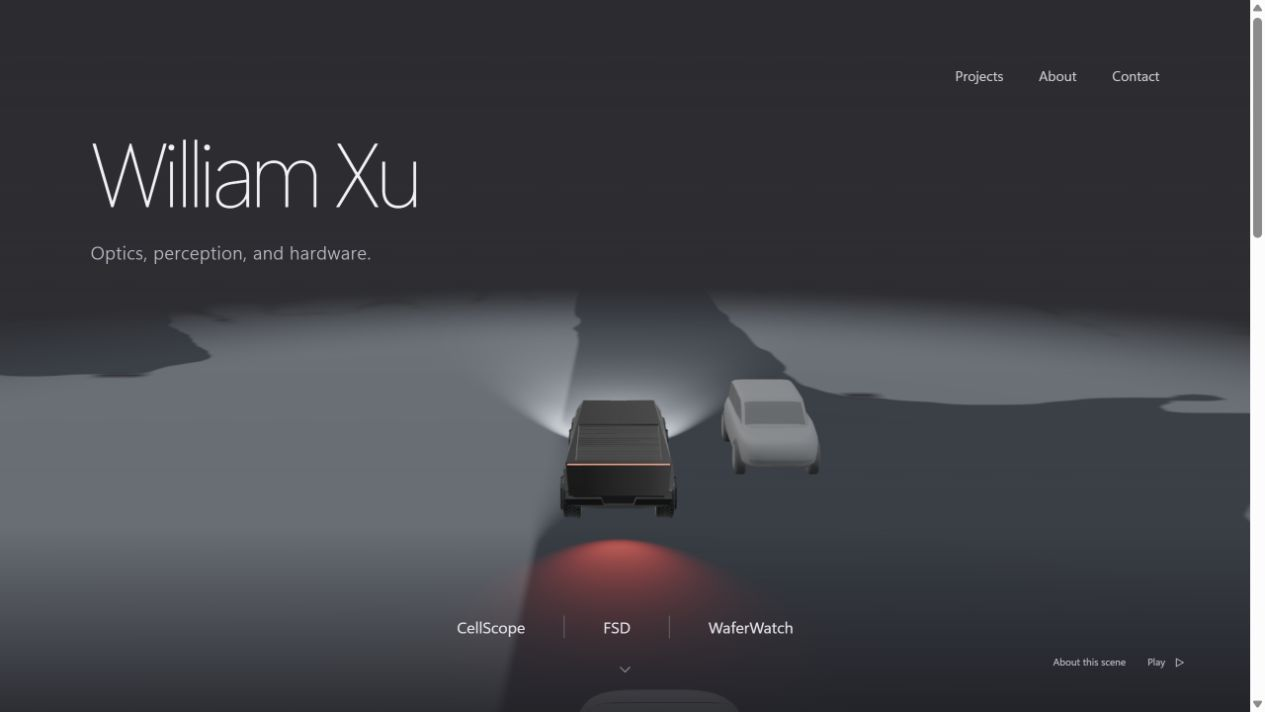
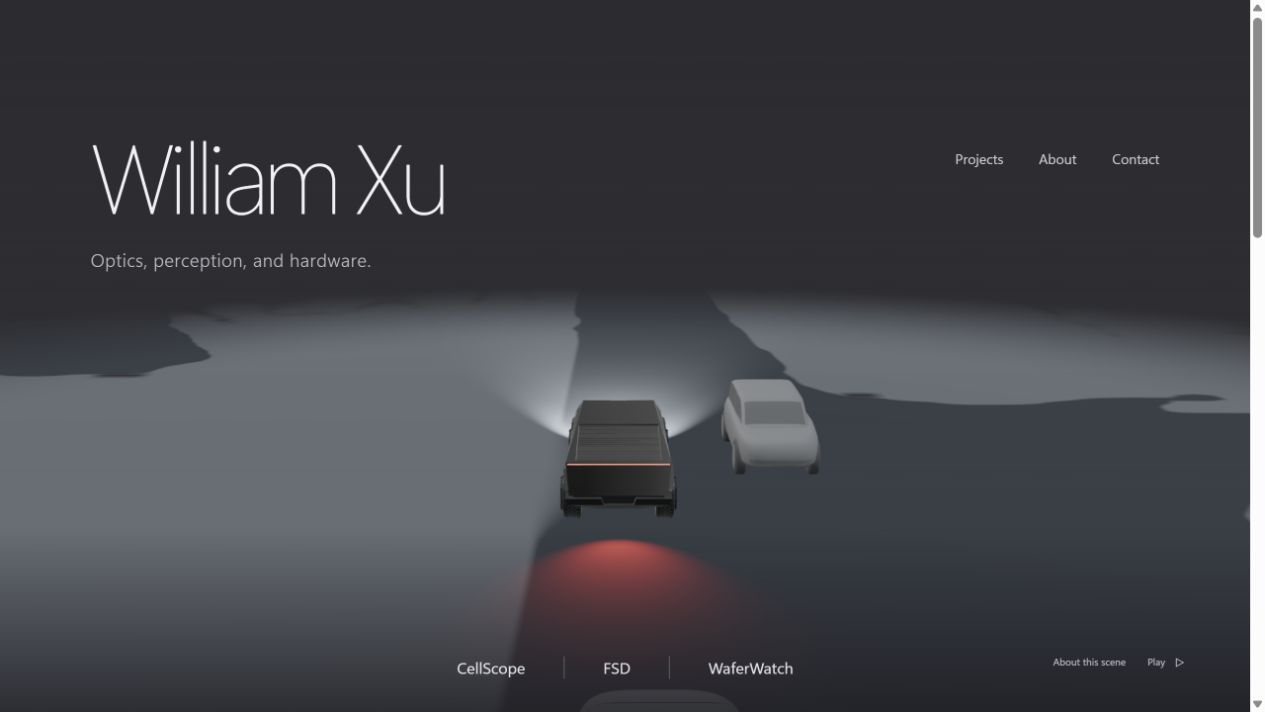
Match the charcoal reference layout and demonstrate autoplay motion

diff --git a/src/portfolio.css b/src/portfolio.css
@@ -1,5 +1,10 @@
-.page-width{width:min(1280px,calc(100% - 144px));margin-inline:auto}.portfolio-hero{height:100svh;min-height:680px;max-height:1350px;position:relative;isolation:isolate;overflow:hidden;background:#2d2d31}.fsd-scene,.scene-canvas,.scene-poster{position:absolute;inset:0;width:100%;height:100%}.fsd-scene{z-index:-3}.scene-poster{object-fit:cover;object-position:center}.scene-canvas{opacity:0;transition:opacity 1.1s}.scene-canvas canvas{display:block;width:100%;height:100%}.is-ready .scene-canvas{opacity:1}.hero-shade{position:absolute;inset:0;z-index:-1;pointer-events:none;background:linear-gradient(180deg,rgba(37,37,42,.25),transparent 47%,rgba(29,29,34,.03) 74%,rgba(29,29,34,.8))}.main-nav{position:absolute;top:58px;right:7.25%;display:flex;gap:36px;font-size:14px;font-weight:400;color:#ceced3}.main-nav a{padding:8px 0}.main-nav a:hover{color:#fff}.hero-intro{position:absolute;top:17.2%;left:7.25%;max-width:80%}.hero-intro h1{font-family:"Segoe UI Variable Display","Helvetica Neue",Arial,sans-serif;font-size:clamp(62px,7.2vw,112px);font-weight:250;line-height:1.03;letter-spacing:-.055em;margin:0;color:#f2f1f4}.hero-intro>p{margin:21px 0 0;font-size:clamp(14px,1.45vw,21px);letter-spacing:.025em;font-weight:350;color:#bcbcc5;line-height:1.6}.project-index{position:absolute;bottom:8.5%;left:50%;transform:translateX(-50%);display:flex;align-items:center;justify-content:center;gap:39px;font-size:16px;color:#e3e3e8;white-space:nowrap}.project-index a{padding:13px 0}.project-index a:hover{color:#fff}.project-index>span{width:1px;height:23px;background:#a2a2ab6b}.continue-link{position:absolute;bottom:23px;left:50%;transform:translateX(-50%);padding:10px;color:#aaaab5}.continue-link svg{width:20px;height:20px;fill:none;stroke:currentColor;stroke-width:1}.scene-controls{position:absolute;bottom:32px;right:4.5%;display:flex;gap:22px;align-items:center;font-size:10px;color:#c1c1cc}.scene-controls>a{padding-block:10px}.scene-controls button{display:flex;gap:10px;align-items:center;background:transparent;border:0;padding:10px 0;font-size:10px;min-width:47px}.scene-controls button:disabled{opacity:.5}.scene-controls button span{font-size:12px}.scene-controls>a:hover,.scene-controls button:hover{color:#fff}.skip-link{position:fixed;left:18px;top:-100px;z-index:20;padding:12px 20px;background:#f0efec;color:#292a2c;border-radius:4px}.skip-link:focus{top:18px}.selected-work{padding-top:100px;padding-bottom:110px}.section-intro{display:flex;justify-content:space-between;align-items:center;gap:30px;margin-bottom:35px}.section-intro h2,.about-section h2,.scene-notes h2{font-size:24px;letter-spacing:-.6px;font-weight:400;margin:0;line-height:1.4}.section-intro>p{font-size:12px;color:#b9b9c1;margin:0;line-height:1.7}.work-grid{display:grid;grid-template-columns:repeat(3,minmax(0,1fr));gap:28px}.work-item{min-width:0;scroll-margin-top:45px}.project-art{position:relative;display:block;aspect-ratio:1.48;overflow:hidden;background:#272a2e;border-radius:6px}.project-art>img{width:100%;height:100%;object-fit:cover;display:block}.project-art>span{position:absolute;right:13px;top:11px;width:25px;height:25px;display:grid;place-items:center;background:#33363baf;color:#f3f3f6;border-radius:50%;font-size:15px}.cellscope-art>img{filter:saturate(.65)}.fsd-art>img{object-fit:cover;object-position:50% 62%}.wafer-art{background:#282d30}.wafer-study{width:100%;height:100%;display:block}.work-heading{display:flex;align-items:baseline;justify-content:space-between;gap:14px;margin-top:22px}.work-heading h3{font-size:20px;letter-spacing:-.55px;font-weight:450;margin:0;line-height:1.4}.work-heading>span{font-size:9px;color:#bcbcc5;white-space:nowrap}.work-item>p{font-size:13px;line-height:1.8;color:#bcbcc5;margin:12px 0 19px;max-width:98%}.work-item details{font-size:12px;color:#c5c5ce}.work-item summary{cursor:pointer;list-style:none;display:inline-flex;gap:12px;align-items:center;padding:4px 0 7px;border-bottom:1px solid #666671}.work-item summary::-webkit-details-marker{display:none}.work-item summary:after{content:'+';font-size:16px;font-weight:300}.work-item details[open] summary:after{content:'−'}.work-item details>div{padding-top:12px}.work-item h4{font-size:12px;font-weight:500;color:#e7e7ed;margin:15px 0 5px}.work-item details p{font-size:12px;line-height:1.9;color:#bcbcc5;margin:0 0 15px}.work-item details a,.scene-notes a{display:inline-block;font-size:11px;line-height:1.8;border-bottom:1px solid #62626d;padding-bottom:4px;margin-top:6px;color:#dedee6}.about-section,.scene-notes{display:grid;grid-template-columns:.65fr 1fr;gap:90px;padding-block:64px;border-top:1px solid #4b4b55}.about-section>div,.scene-notes>div{max-width:650px}.about-section p,.scene-notes p{font-size:15px;font-weight:350;line-height:1.95;color:#c5c5ce;margin:0 0 18px}.about-section p:last-child,.scene-notes p:last-child{margin-bottom:0}.scene-notes h2{font-size:20px}.scene-notes p{font-size:12px;line-height:1.95;color:#bcbcc5}.contact-section{position:relative;border-top:1px solid #4b4b55;padding-top:60px;padding-bottom:95px;display:flex;justify-content:space-between;gap:50px;align-items:end}.contact-section>div>p{font-size:12px;color:#bcbcc5;margin:0 0 14px}.email-link{display:flex;gap:50px;align-items:center;font-size:46px;letter-spacing:-1.5px;font-weight:300}.email-link>span{font-size:36px;color:#b9b9c2}.contact-section nav{display:flex;gap:30px;font-size:12px;color:#cacad1;padding-bottom:10px}.contact-section nav a:hover{color:#fff}.footer-name{position:absolute;left:0;bottom:24px;font-size:10px;color:#9696a1;margin:0}
-@media(min-width:1600px){.hero-intro{top:16%}.main-nav{top:70px}.project-index{bottom:8.5%;font-size:19px}.scene-controls{bottom:39px;font-size:11px}}
-@media(max-width:1100px){.page-width{width:calc(100% - 90px)}.main-nav{top:39px;right:6%;gap:27px;font-size:13px}.hero-intro{left:6%;top:19%}.hero-intro h1{font-size:80px}.hero-intro>p{font-size:17px}.project-index{gap:28px;font-size:15px}.selected-work{padding-top:70px;padding-bottom:75px}.work-grid{gap:22px}.work-heading{display:block}.work-heading h3{font-size:18px}.work-heading>span{display:block;margin-top:7px;font-size:10px}.about-section,.scene-notes{gap:45px;grid-template-columns:.6fr 1fr}.email-link{font-size:40px}.scene-controls{right:4%;gap:16px}}
-@media(max-width:700px){.page-width{width:calc(100% - 44px)}.portfolio-hero{min-height:660px;max-height:none}.main-nav{top:25px;right:23px;left:23px;justify-content:flex-end;gap:25px;font-size:12px}.main-nav a{padding-block:13px}.hero-intro{top:17%;left:23px;right:23px;max-width:none}.hero-intro h1{font-size:clamp(49px,11.8vw,78px);font-weight:300;letter-spacing:-.055em;white-space:nowrap}.hero-intro>p{font-size:13px;margin-top:15px;letter-spacing:.015em}.hero-shade{background:linear-gradient(180deg,rgba(37,37,42,.24),transparent 51%,rgba(29,29,34,.07) 72%,rgba(29,29,34,.85))}.project-index{bottom:104px;gap:21px;font-size:13px;width:calc(100% - 40px)}.project-index>span{height:17px}.scene-controls{bottom:52px;left:23px;right:23px;justify-content:space-between;font-size:10px}.scene-controls button{min-height:44px}.continue-link{bottom:12px}.section-intro{display:block;margin-bottom:28px}.section-intro h2{font-size:24px}.section-intro>p{font-size:12px;margin-top:11px}.selected-work{padding-top:50px;padding-bottom:60px}.work-grid{grid-template-columns:1fr;gap:43px}.project-art{aspect-ratio:1.5}.work-heading{display:flex;margin-top:18px}.work-heading h3{font-size:21px}.work-heading>span{display:inline;margin:0;font-size:10px}.work-item>p{font-size:13px;margin-block:12px 16px}.work-item details{font-size:12px}.work-item summary{min-height:40px}.about-section,.scene-notes{grid-template-columns:1fr;gap:22px;padding-block:38px}.about-section h2{font-size:23px}.about-section p{font-size:14px}.scene-notes h2{font-size:20px}.scene-notes p{font-size:12px}.contact-section{padding-top:40px;padding-bottom:85px;flex-direction:column;align-items:start;gap:28px}.email-link{font-size:43px;gap:40px}.contact-section nav{gap:25px}.contact-section nav a{min-height:35px;display:inline-flex;align-items:center}.footer-name{bottom:25px}}
+.page-width{width:min(1280px,calc(100% - 144px));margin-inline:auto}.portfolio-hero{height:100svh;min-height:680px;max-height:1350px;position:relative;isolation:isolate;overflow:hidden;background:#2d2d31}.fsd-scene,.scene-canvas,.scene-poster{position:absolute;inset:0;width:100%;height:100%}.fsd-scene{z-index:-3}.scene-poster{object-fit:cover;object-position:center}.scene-canvas{opacity:0;transition:opacity 1.1s}.scene-canvas canvas{display:block;width:100%;height:100%}.is-ready .scene-canvas{opacity:1}.hero-shade{position:absolute;inset:0;z-index:-1;pointer-events:none;background:linear-gradient(180deg,rgba(37,37,42,.25),transparent 47%,rgba(29,29,34,.03) 74%,rgba(29,29,34,.8))}.main-nav{position:absolute;top:calc(17.2% + 18px);right:7.25%;display:flex;gap:36px;font-size:14px;font-weight:400;color:#ceced3}.main-nav a{padding:8px 0}.main-nav a:hover{color:#fff}.hero-intro{position:absolute;top:17.2%;left:7.25%;max-width:80%}.hero-intro h1{font-family:"Segoe UI Variable Display","Helvetica Neue",Arial,sans-serif;font-size:clamp(62px,7.8vw,124px);font-weight:250;line-height:1.03;letter-spacing:-.055em;margin:0;color:#f2f1f4}.hero-intro>p{margin:21px 0 0;font-size:clamp(14px,1.45vw,21px);letter-spacing:.025em;font-weight:350;color:#bcbcc5;line-height:1.6}.project-index{position:absolute;bottom:2.8%;left:50%;transform:translateX(-50%);display:flex;align-items:center;justify-content:center;gap:39px;font-size:16px;color:#e3e3e8;white-space:nowrap}.project-index a{padding:13px 0}.project-index a:hover{color:#fff}.project-index>span{width:1px;height:23px;background:#a2a2ab6b}.scene-controls{position:absolute;bottom:32px;right:4.5%;display:flex;gap:22px;align-items:center;font-size:10px;color:#c1c1cc}.scene-controls>a{padding-block:10px}.scene-controls button{display:flex;gap:10px;align-items:center;background:transparent;border:0;padding:10px 0;font-size:10px;min-width:47px}.scene-controls button:disabled{opacity:.5}.scene-controls button span{font-size:12px}.scene-controls>a:hover,.scene-controls button:hover{color:#fff}.skip-link{position:fixed;left:18px;top:-100px;z-index:20;padding:12px 20px;background:#f0efec;color:#292a2c;border-radius:4px}.skip-link:focus{top:18px}.selected-work{padding-top:100px;padding-bottom:110px}.section-intro{display:flex;justify-content:space-between;align-items:center;gap:30px;margin-bottom:35px}.section-intro h2,.about-section h2,.scene-notes h2{font-size:24px;letter-spacing:-.6px;font-weight:400;margin:0;line-height:1.4}.section-intro>p{font-size:12px;color:#b9b9c1;margin:0;line-height:1.7}.work-grid{display:grid;grid-template-columns:repeat(3,minmax(0,1fr));gap:28px}.work-item{min-width:0;scroll-margin-top:45px}.project-art{position:relative;display:block;aspect-ratio:1.48;overflow:hidden;background:#272a2e;border-radius:6px}.project-art>img{width:100%;height:100%;object-fit:cover;display:block}.project-art>span{position:absolute;right:13px;top:11px;width:25px;height:25px;display:grid;place-items:center;background:#33363baf;color:#f3f3f6;border-radius:50%;font-size:15px}.cellscope-art>img{filter:saturate(.65)}.fsd-art>img{object-fit:cover;object-position:50% 62%}.wafer-art{background:#282d30}.wafer-study{width:100%;height:100%;display:block}.work-heading{display:flex;align-items:baseline;justify-content:space-between;gap:14px;margin-top:22px}.work-heading h3{font-size:20px;letter-spacing:-.55px;font-weight:450;margin:0;line-height:1.4}.work-heading>span{font-size:9px;color:#bcbcc5;white-space:nowrap}.work-item>p{font-size:13px;line-height:1.8;color:#bcbcc5;margin:12px 0 19px;max-width:98%}.work-item details{font-size:12px;color:#c5c5ce}.work-item summary{cursor:pointer;list-style:none;display:inline-flex;gap:12px;align-items:center;padding:4px 0 7px;border-bottom:1px solid #666671}.work-item summary::-webkit-details-marker{display:none}.work-item summary:after{content:'+';font-size:16px;font-weight:300}.work-item details[open] summary:after{content:'−'}.work-item details>div{padding-top:12px}.work-item h4{font-size:12px;font-weight:500;color:#e7e7ed;margin:15px 0 5px}.work-item details p{font-size:12px;line-height:1.9;color:#bcbcc5;margin:0 0 15px}.work-item details a,.scene-notes a{display:inline-block;font-size:11px;line-height:1.8;border-bottom:1px solid #62626d;padding-bottom:4px;margin-top:6px;color:#dedee6}.about-section,.scene-notes{display:grid;grid-template-columns:.65fr 1fr;gap:90px;padding-block:64px;border-top:1px solid #4b4b55}.about-section>div,.scene-notes>div{max-width:650px}.about-section p,.scene-notes p{font-size:15px;font-weight:350;line-height:1.95;color:#c5c5ce;margin:0 0 18px}.about-section p:last-child,.scene-notes p:last-child{margin-bottom:0}.scene-notes h2{font-size:20px}.scene-notes p{font-size:12px;line-height:1.95;color:#bcbcc5}.contact-section{position:relative;border-top:1px solid #4b4b55;padding-top:60px;padding-bottom:95px;display:flex;justify-content:space-between;gap:50px;align-items:end}.contact-section>div>p{font-size:12px;color:#bcbcc5;margin:0 0 14px}.email-link{display:flex;gap:50px;align-items:center;font-size:46px;letter-spacing:-1.5px;font-weight:300}.email-link>span{font-size:36px;color:#b9b9c2}.contact-section nav{display:flex;gap:30px;font-size:12px;color:#cacad1;padding-bottom:10px}.contact-section nav a:hover{color:#fff}.footer-name{position:absolute;left:0;bottom:24px;font-size:10px;color:#9696a1;margin:0}
+@media(min-width:1600px){.hero-intro{top:16%}.main-nav{top:calc(16% + 18px)}.project-index{bottom:2.8%;font-size:19px}.scene-controls{bottom:39px;font-size:11px}}
+@media(max-width:1100px){.page-width{width:calc(100% - 90px)}.main-nav{top:calc(19% + 12px);right:6%;gap:27px;font-size:13px}.hero-intro{left:6%;top:19%}.hero-intro h1{font-size:80px}.hero-intro>p{font-size:17px}.project-index{gap:28px;font-size:15px}.selected-work{padding-top:70px;padding-bottom:75px}.work-grid{gap:22px}.work-heading{display:block}.work-heading h3{font-size:18px}.work-heading>span{display:block;margin-top:7px;font-size:10px}.about-section,.scene-notes{gap:45px;grid-template-columns:.6fr 1fr}.email-link{font-size:40px}.scene-controls{right:4%;gap:16px}}
+@media(max-width:700px){.page-width{width:calc(100% - 44px)}.portfolio-hero{min-height:660px;max-height:none}.main-nav{top:25px;right:23px;left:23px;justify-content:flex-end;gap:25px;font-size:12px}.main-nav a{padding-block:13px}.hero-intro{top:17%;left:23px;right:23px;max-width:none}.hero-intro h1{font-size:clamp(49px,11.8vw,78px);font-weight:300;letter-spacing:-.055em;white-space:nowrap}.hero-intro>p{font-size:13px;margin-top:15px;letter-spacing:.015em}.hero-shade{background:linear-gradient(180deg,rgba(37,37,42,.24),transparent 51%,rgba(29,29,34,.07) 72%,rgba(29,29,34,.85))}.project-index{bottom:104px;gap:21px;font-size:13px;width:calc(100% - 40px)}.project-index>span{height:17px}.scene-controls{bottom:52px;left:23px;right:23px;justify-content:space-between;font-size:10px}.scene-controls button{min-height:44px}.section-intro{display:block;margin-bottom:28px}.section-intro h2{font-size:24px}.section-intro>p{font-size:12px;margin-top:11px}.selected-work{padding-top:50px;padding-bottom:60px}.work-grid{grid-template-columns:1fr;gap:43px}.project-art{aspect-ratio:1.5}.work-heading{display:flex;margin-top:18px}.work-heading h3{font-size:21px}.work-heading>span{display:inline;margin:0;font-size:10px}.work-item>p{font-size:13px;margin-block:12px 16px}.work-item details{font-size:12px}.work-item summary{min-height:40px}.about-section,.scene-notes{grid-template-columns:1fr;gap:22px;padding-block:38px}.about-section h2{font-size:23px}.about-section p{font-size:14px}.scene-notes h2{font-size:20px}.scene-notes p{font-size:12px}.contact-section{padding-top:40px;padding-bottom:85px;flex-direction:column;align-items:start;gap:28px}.email-link{font-size:43px;gap:40px}.contact-section nav{gap:25px}.contact-section nav a{min-height:35px;display:inline-flex;align-items:center}.footer-name{bottom:25px}}
 @media(max-width:350px){.project-index{gap:15px;font-size:12px}.hero-intro h1{font-size:48px}.work-heading{display:block}.work-heading>span{display:block;margin-top:6px}}
+
+/* A single quiet entrance; the recorded scene carries the ongoing motion. */
+.hero-intro{animation:portfolio-intro-in 650ms ease-out both}
+@keyframes portfolio-intro-in{from{opacity:0}to{opacity:1}}
+@media(prefers-reduced-motion:reduce){.hero-intro{animation:none}}

diff --git a/src/PortfolioExperiment.jsx b/src/PortfolioExperiment.jsx
@@ -28,7 +28,6 @@ export default function PortfolioExperiment() {
         <nav className="main-nav" aria-label="Main navigation"><a href="#projects">Projects</a><a href="#about">About</a><a href="#contact">Contact</a></nav>
         <div className="hero-intro"><h1 id="name">William Xu</h1><p>Optics, perception, and hardware.</p></div>
         <nav className="project-index" aria-label="Featured projects"><a href="#cellscope">CellScope</a><span aria-hidden="true" /><a href="#fsd">FSD</a><span aria-hidden="true" /><a href="#waferwatch">WaferWatch</a></nav>
-        <a className="continue-link" href="#projects" aria-label="Explore selected projects"><svg viewBox="0 0 24 24" aria-hidden="true"><path d="m6 9 6 6 6-6" /></svg></a>
       </section>
 
       <section className="selected-work page-width" id="projects" aria-labelledby="work-title">

diff --git a/src/components/FsdScene.jsx b/src/components/FsdScene.jsx
@@ -23,7 +23,7 @@ export default function FsdScene() {
     preference.addEventListener('change', change); return () => preference.removeEventListener('change', change);
   }, []);
   return <>
-    <div className={`fsd-scene ${status === 'ready' ? 'is-ready' : ''}`} aria-hidden="true">
+    <div className={`fsd-scene ${status === 'ready' ? 'is-ready' : ''}`} data-motion={paused ? 'paused' : 'playing'} aria-hidden="true">
       <img className="scene-poster" src={`${import.meta.env.BASE_URL}fsd/poster.jpg`} alt="" fetchPriority="high" />
       <div className="scene-canvas" ref={host} />
     </div>

diff --git a/docs/fsd-portfolio-test.md b/docs/fsd-portfolio-test.md
@@ -70,6 +70,15 @@ checks confirmed asset loading under the Pages prefix, a loop restart, pause/pla
 reduced motion, keyboard-operated project notes, and a narrow layout without
 horizontal overflow. Full evidence is in [verification.json](verification.json).
 
+The normal page starts moving automatically after its scene assets load. The
+navigation and lower project links now follow the charcoal reference more
+closely. A single short intro fade accompanies the existing scene crossfade;
+reduced-motion preferences retain a still presentation with an explicit Play
+control. The capture below shows approximately five seconds of actual browser
+playback, rather than an image-generation animation.
+
+![Animated homepage preview](fsd-homepage-motion.gif)
+
 ![Desktop test](fsd-homepage-test.png)
 
 ![Mobile test](fsd-homepage-mobile.png)

diff --git a/public/fsd/ATTRIBUTION.md b/public/fsd/ATTRIBUTION.md
@@ -41,6 +41,8 @@ and scene poster; it does not change the separate mesh licenses.
   losslessly into opaque RGB atlases. Matched recorded poses and actors interpolate
   for display. No source camera media, model weights, training data, or ground-truth
   arrays are included. The poster is an existing render of that reconstruction.
+- The documentation screenshots and animated homepage capture are derivative
+  visualizations of the same scene and retain this attribution and dataset license.
 - Evidence: `provenance.json` records source identity and output hashes.
 
 This is an independent personal research visualization. No endorsement or
